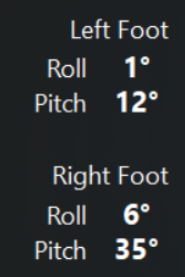
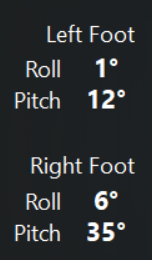
added consistency on the size of the image and a reference point in the event we use a different position of the KAT Gateway, added comments and naming

diff --git a/KATData/FetchKATData.py b/KATData/FetchKATData.py
@@ -3,14 +3,27 @@ import pyautogui
 import cv2
 
 class FetchKATData:
-    def __init__(self, left, top):
-        self.left = left
-        self.top = top
-        self.width = 478
-        self.height = 318
+    def __init__(self, left_foot_grid_centre_x, left_foot_grid_centre_y):
+        '''
+            On KAT Gateway Software, there exists 2 grids which represent the rotations of each foot.
+            To generate the same image, we need to use the same reference point to get the same boundaries.
+            The reference point we will use will be the center of the Left Foot Grid
+            
+            left_foot_grid_centre_x: X coordinate of the centre of the left foot grid.
+            left_foot_grid_centre_y: Y coordinate of the centre of the left foot grid.
+        '''
+        self.left = left_foot_grid_centre_x - 202
+        self.top = left_foot_grid_centre_y - 67
+        self.width = 154
+        self.height = 262
 
 
     def getData(self): 
+        '''
+            Get the reading of KAT Gateway and return those values in Python.
+
+            Output: 4 integers: left_foot_roll, left_foot_pitch, right_foot_roll, right_foot_pitch
+        '''
 
         # IF either parameter is negative, fetch data from test image
         if(self.left < 0 or self.top < 0):
@@ -23,14 +36,17 @@ class FetchKATData:
         data_rotation_str = pytesseract.image_to_string(screenshot)
         data_rotation_str = data_rotation_str.strip()
 
+
         # Format data in an array where each element in our array is each line from the string
         data_rotation_array = data_rotation_str.split('\n')
+
 
         # Extract the data we want as string
         left_foot_roll_str = data_rotation_array[1][5:data_rotation_array[1].index('°')]
         left_foot_pitch_str = data_rotation_array[2][5:data_rotation_array[2].index('°')]
-        right_foot_roll_str = data_rotation_array[6][5:data_rotation_array[6].index('°')]
-        right_foot_pitch_str = data_rotation_array[7][5:data_rotation_array[7].index('°')]
+        right_foot_roll_str = data_rotation_array[5][5:data_rotation_array[5].index('°')]
+        right_foot_pitch_str = data_rotation_array[6][5:data_rotation_array[6].index('°')]
+
 
         # Convert the data from string to integer
         left_foot_roll = int(left_foot_roll_str)
